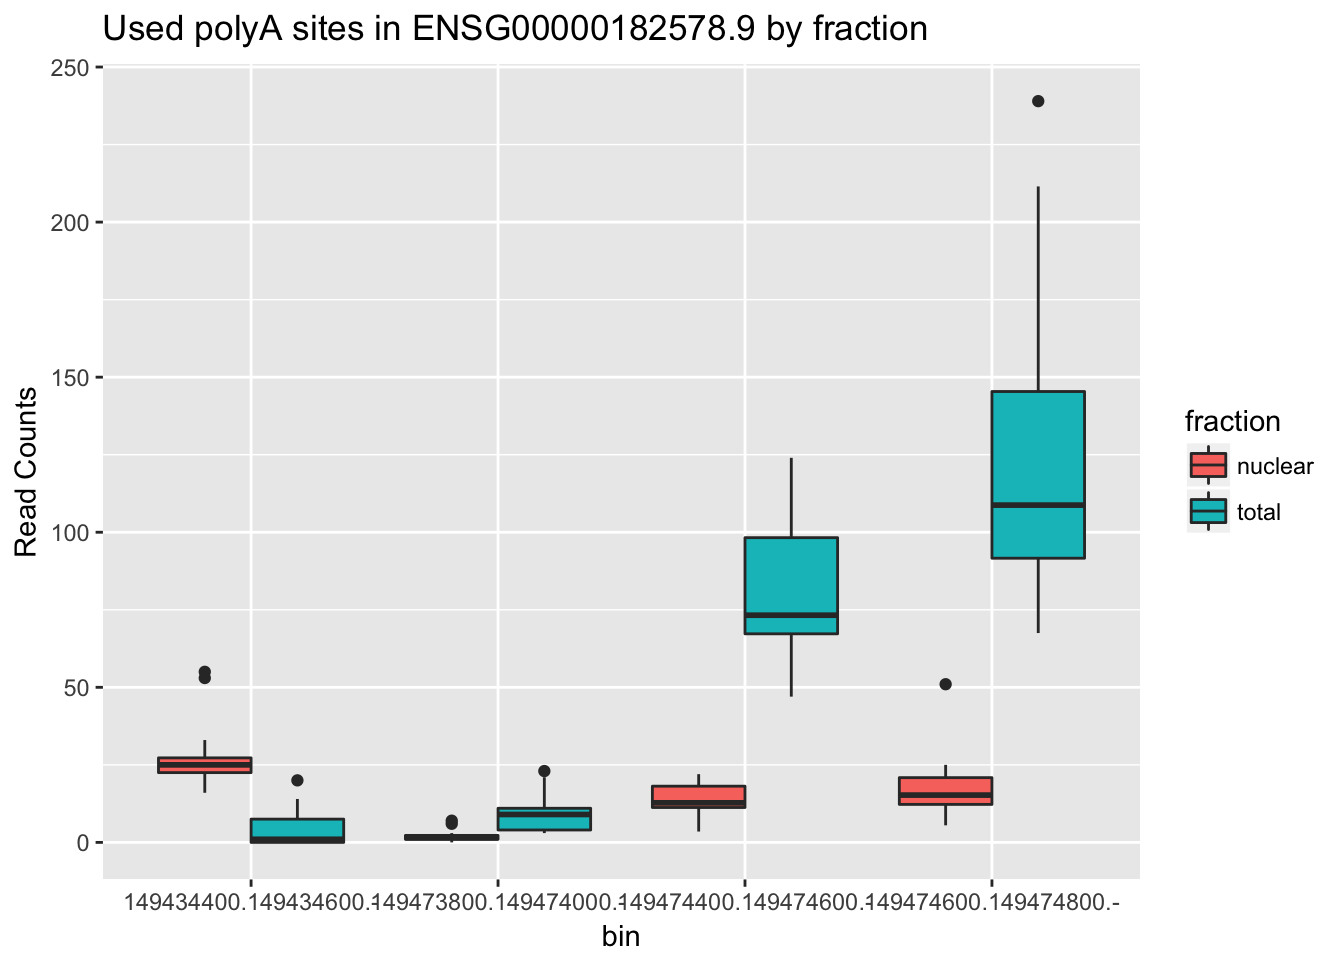
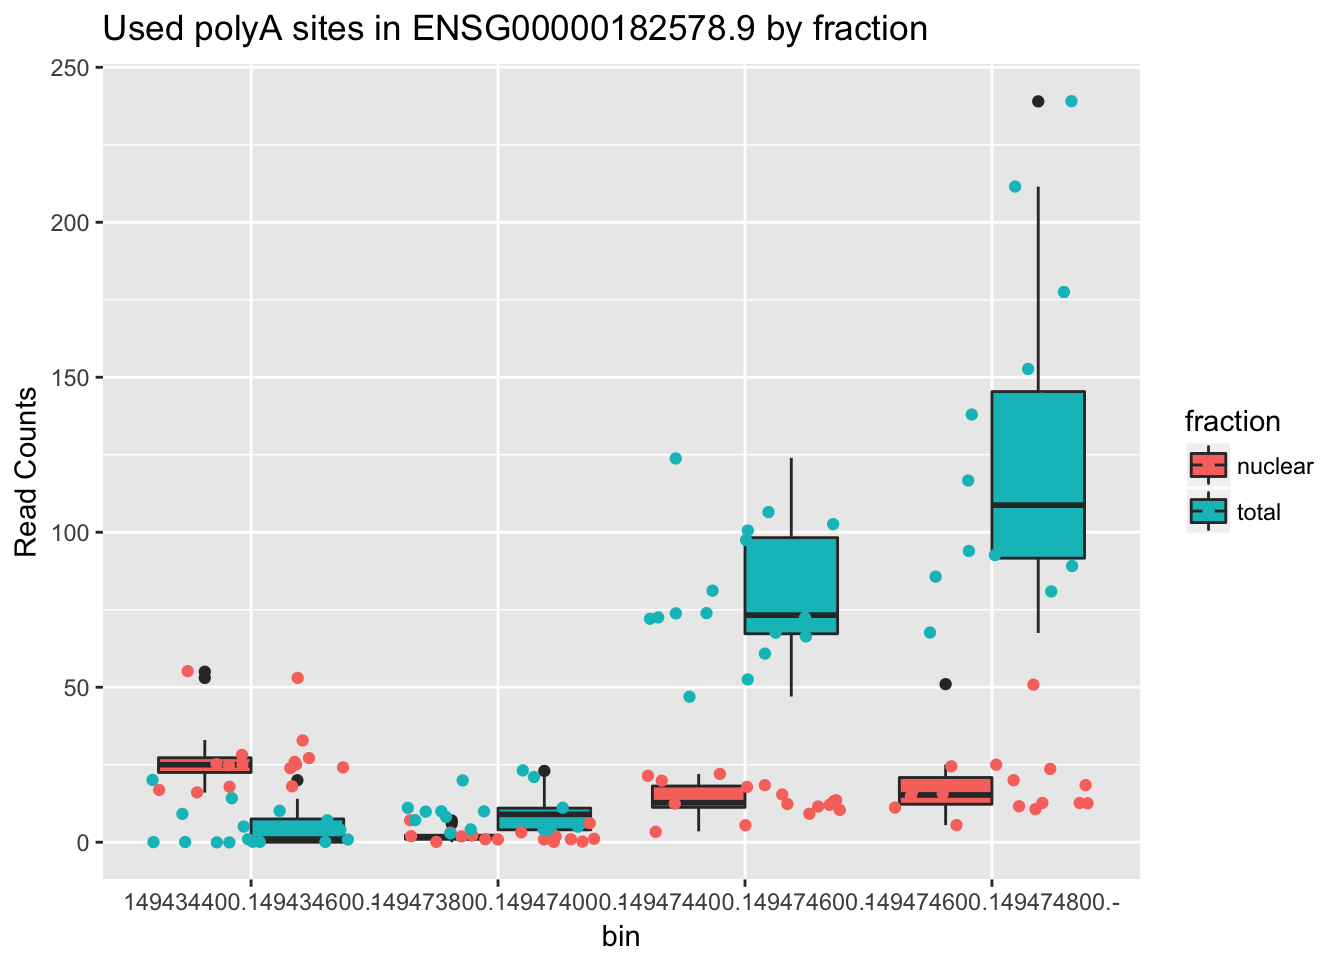
Build site.

diff --git a/docs/dif.iso.usage.leafcutter.html b/docs/dif.iso.usage.leafcutter.html
@@ -341,7 +341,7 @@ div.section {
 </details>
 </li>
 <li>
-<p><details> <summary> <strong style="color:blue;">✔</strong> <strong>Repository version:</strong> <a href="https://github.com/brimittleman/threeprimeseq/tree/a19683c3a42318377499f44fdd98f7af8ce4d2fd" target="_blank">a19683c</a> </summary></p>
+<p><details> <summary> <strong style="color:blue;">✔</strong> <strong>Repository version:</strong> <a href="https://github.com/brimittleman/threeprimeseq/tree/1c91f2b5d0a760d71776d96556ed75b80a4b91e1" target="_blank">1c91f2b</a> </summary></p>
 Great! You are using Git for version control. Tracking code development and connecting the code version to the results is critical for reproducibility. The version displayed above was the version of the Git repository at the time these results were generated. <br><br> Note that you need to be careful to ensure that all relevant files for the analysis have been committed to Git prior to generating the results (you can use <code>wflow_publish</code> or <code>wflow_git_commit</code>). workflowr only checks the R Markdown file, but you know if there are other scripts or data files that it depends on. Below is the status of the Git repository when the results were generated:
 <pre><code>
 Ignored files:
@@ -385,6 +385,40 @@ Message
 </tr>
 </thead>
 <tbody>
+<tr>
+<td style="text-align:left;">
+Rmd
+</td>
+<td style="text-align:left;">
+<a href="https://github.com/brimittleman/threeprimeseq/blob/1c91f2b5d0a760d71776d96556ed75b80a4b91e1/analysis/dif.iso.usage.leafcutter.Rmd" target="_blank">1c91f2b</a>
+</td>
+<td style="text-align:left;">
+Briana Mittleman
+</td>
+<td style="text-align:left;">
+2018-06-06
+</td>
+<td style="text-align:left;">
+plotting diff isoform hits
+</td>
+</tr>
+<tr>
+<td style="text-align:left;">
+html
+</td>
+<td style="text-align:left;">
+<a href="https://cdn.rawgit.com/brimittleman/threeprimeseq/86cfd9ff2fdd20c9bcc0f2872ca016b383d81700/docs/dif.iso.usage.leafcutter.html" target="_blank">86cfd9f</a>
+</td>
+<td style="text-align:left;">
+Briana Mittleman
+</td>
+<td style="text-align:left;">
+2018-06-06
+</td>
+<td style="text-align:left;">
+Build site.
+</td>
+</tr>
 <tr>
 <td style="text-align:left;">
 Rmd
@@ -484,10 +518,76 @@ counts_anno=cbind(genes,counts) </code></pre>
 <pre class="r"><code>counts_melt_ENSG00000066135.8= counts_melt %&gt;% filter(gene==&quot;ENSG00000066135.8&quot;) %&gt;% arrange(bin) </code></pre>
 <p>Try to plot this.</p>
 <pre class="r"><code>ggplot(counts_melt_ENSG00000066135.8, aes(x=bin, y=value, fill=fraction)) + geom_boxplot() + labs(title=&quot;Used polyA sites in KDM4A by fraction&quot;, y=&quot;Read Counts&quot;)</code></pre>
-<p><img src="figure/dif.iso.usage.leafcutter.Rmd/unnamed-chunk-10-1.png" width="672" style="display: block; margin: auto;" /> Look at one more gene. ENSG00000182578.9</p>
+<p><img src="figure/dif.iso.usage.leafcutter.Rmd/unnamed-chunk-10-1.png" width="672" style="display: block; margin: auto;" /></p>
+<details> <summary><em>Expand here to see past versions of unnamed-chunk-10-1.png:</em></summary>
+<table style="border-collapse:separate; border-spacing:5px;">
+<thead>
+<tr>
+<th style="text-align:left;">
+Version
+</th>
+<th style="text-align:left;">
+Author
+</th>
+<th style="text-align:left;">
+Date
+</th>
+</tr>
+</thead>
+<tbody>
+<tr>
+<td style="text-align:left;">
+<a href="https://github.com/brimittleman/threeprimeseq/blob/86cfd9ff2fdd20c9bcc0f2872ca016b383d81700/docs/figure/dif.iso.usage.leafcutter.Rmd/unnamed-chunk-10-1.png" target="_blank">86cfd9f</a>
+</td>
+<td style="text-align:left;">
+Briana Mittleman
+</td>
+<td style="text-align:left;">
+2018-06-06
+</td>
+</tr>
+</tbody>
+</table>
+<p></details></p>
+<p>Look at one more gene. ENSG00000182578.9</p>
 <pre class="r"><code>counts_melt_ENSG00000182578.9= counts_melt %&gt;% filter(gene==&quot;ENSG00000182578.9&quot;) %&gt;% arrange(bin) 
-ggplot(counts_melt_ENSG00000182578.9, aes(x=bin, y=value, fill=fraction)) + geom_boxplot() + labs(title=&quot;Used polyA sites in ENSG00000182578.9 by fraction&quot;, y=&quot;Read Counts&quot;)</code></pre>
+ggplot(counts_melt_ENSG00000182578.9, aes(x=bin, y=value, fill=fraction)) + geom_boxplot() + geom_jitter( aes(col=fraction)) +labs(title=&quot;Used polyA sites in ENSG00000182578.9 by fraction&quot;, y=&quot;Read Counts&quot;) </code></pre>
 <p><img src="figure/dif.iso.usage.leafcutter.Rmd/unnamed-chunk-11-1.png" width="672" style="display: block; margin: auto;" /></p>
+<details> <summary><em>Expand here to see past versions of unnamed-chunk-11-1.png:</em></summary>
+<table style="border-collapse:separate; border-spacing:5px;">
+<thead>
+<tr>
+<th style="text-align:left;">
+Version
+</th>
+<th style="text-align:left;">
+Author
+</th>
+<th style="text-align:left;">
+Date
+</th>
+</tr>
+</thead>
+<tbody>
+<tr>
+<td style="text-align:left;">
+<a href="https://github.com/brimittleman/threeprimeseq/blob/86cfd9ff2fdd20c9bcc0f2872ca016b383d81700/docs/figure/dif.iso.usage.leafcutter.Rmd/unnamed-chunk-11-1.png" target="_blank">86cfd9f</a>
+</td>
+<td style="text-align:left;">
+Briana Mittleman
+</td>
+<td style="text-align:left;">
+2018-06-06
+</td>
+</tr>
+</tbody>
+</table>
+<p></details></p>
+<p>One more. ENSG00000163632.8</p>
+<pre class="r"><code>counts_melt_ENSG00000163632.8= counts_melt %&gt;% filter(gene==&quot;ENSG00000163632.8&quot;) %&gt;% arrange(bin) 
+ggplot(counts_melt_ENSG00000163632.8, aes(x=bin, y=value, fill=fraction)) + geom_boxplot() + labs(title=&quot;Used polyA sites in ENSG00000163632.8 by fraction&quot;, y=&quot;Read Counts&quot;)</code></pre>
+<p><img src="figure/dif.iso.usage.leafcutter.Rmd/unnamed-chunk-12-1.png" width="672" style="display: block; margin: auto;" /></p>
+<p>I want to change the y axis to a ratio of reads in the bin/reads in all bins for that individual. To do this I will group by ind and fraction then get a sum for the gene. this will allow me to make the ratio.</p>
 </div>
 <div id="session-information" class="section level2">
 <h2>Session information</h2>
